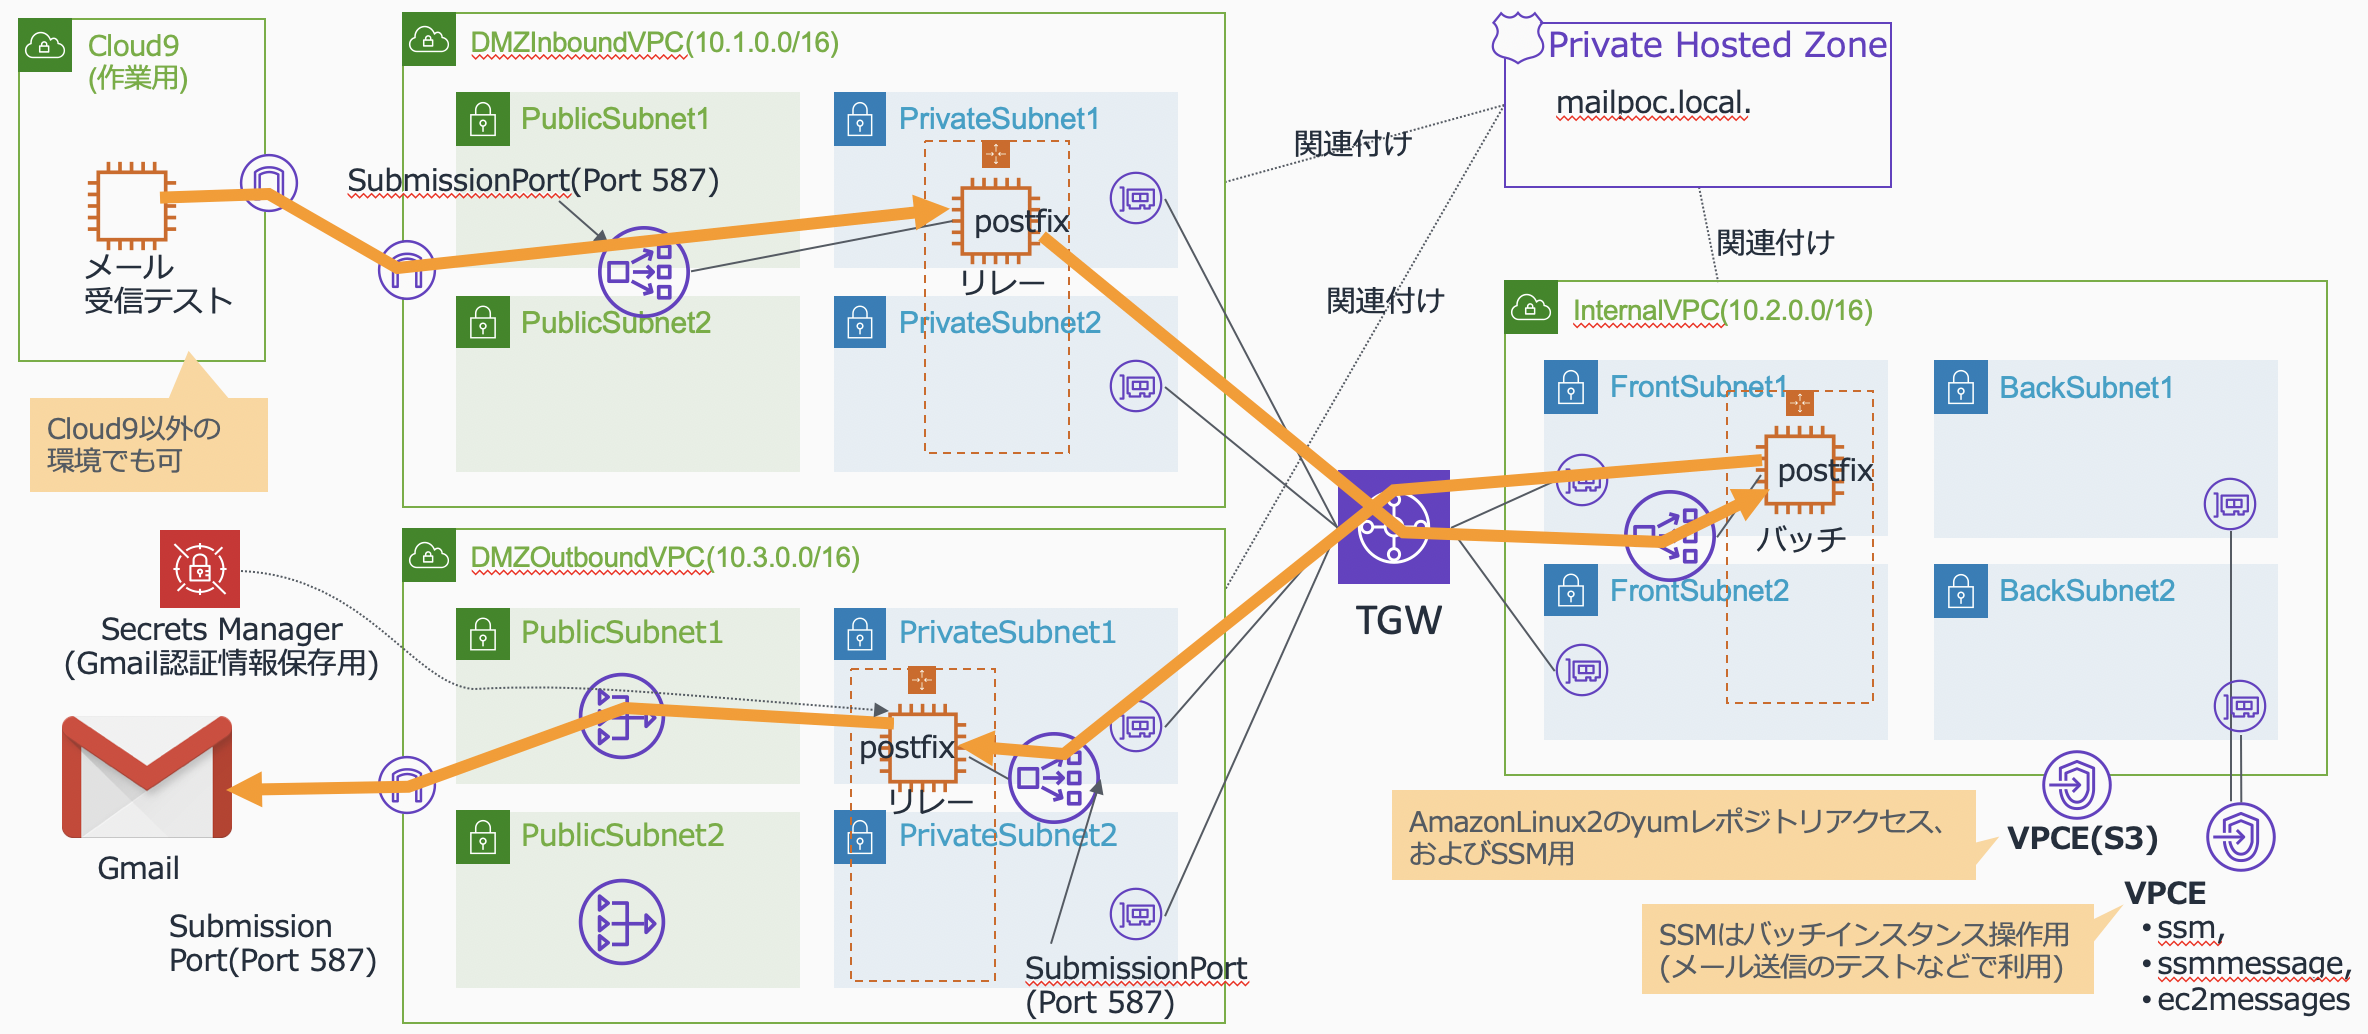
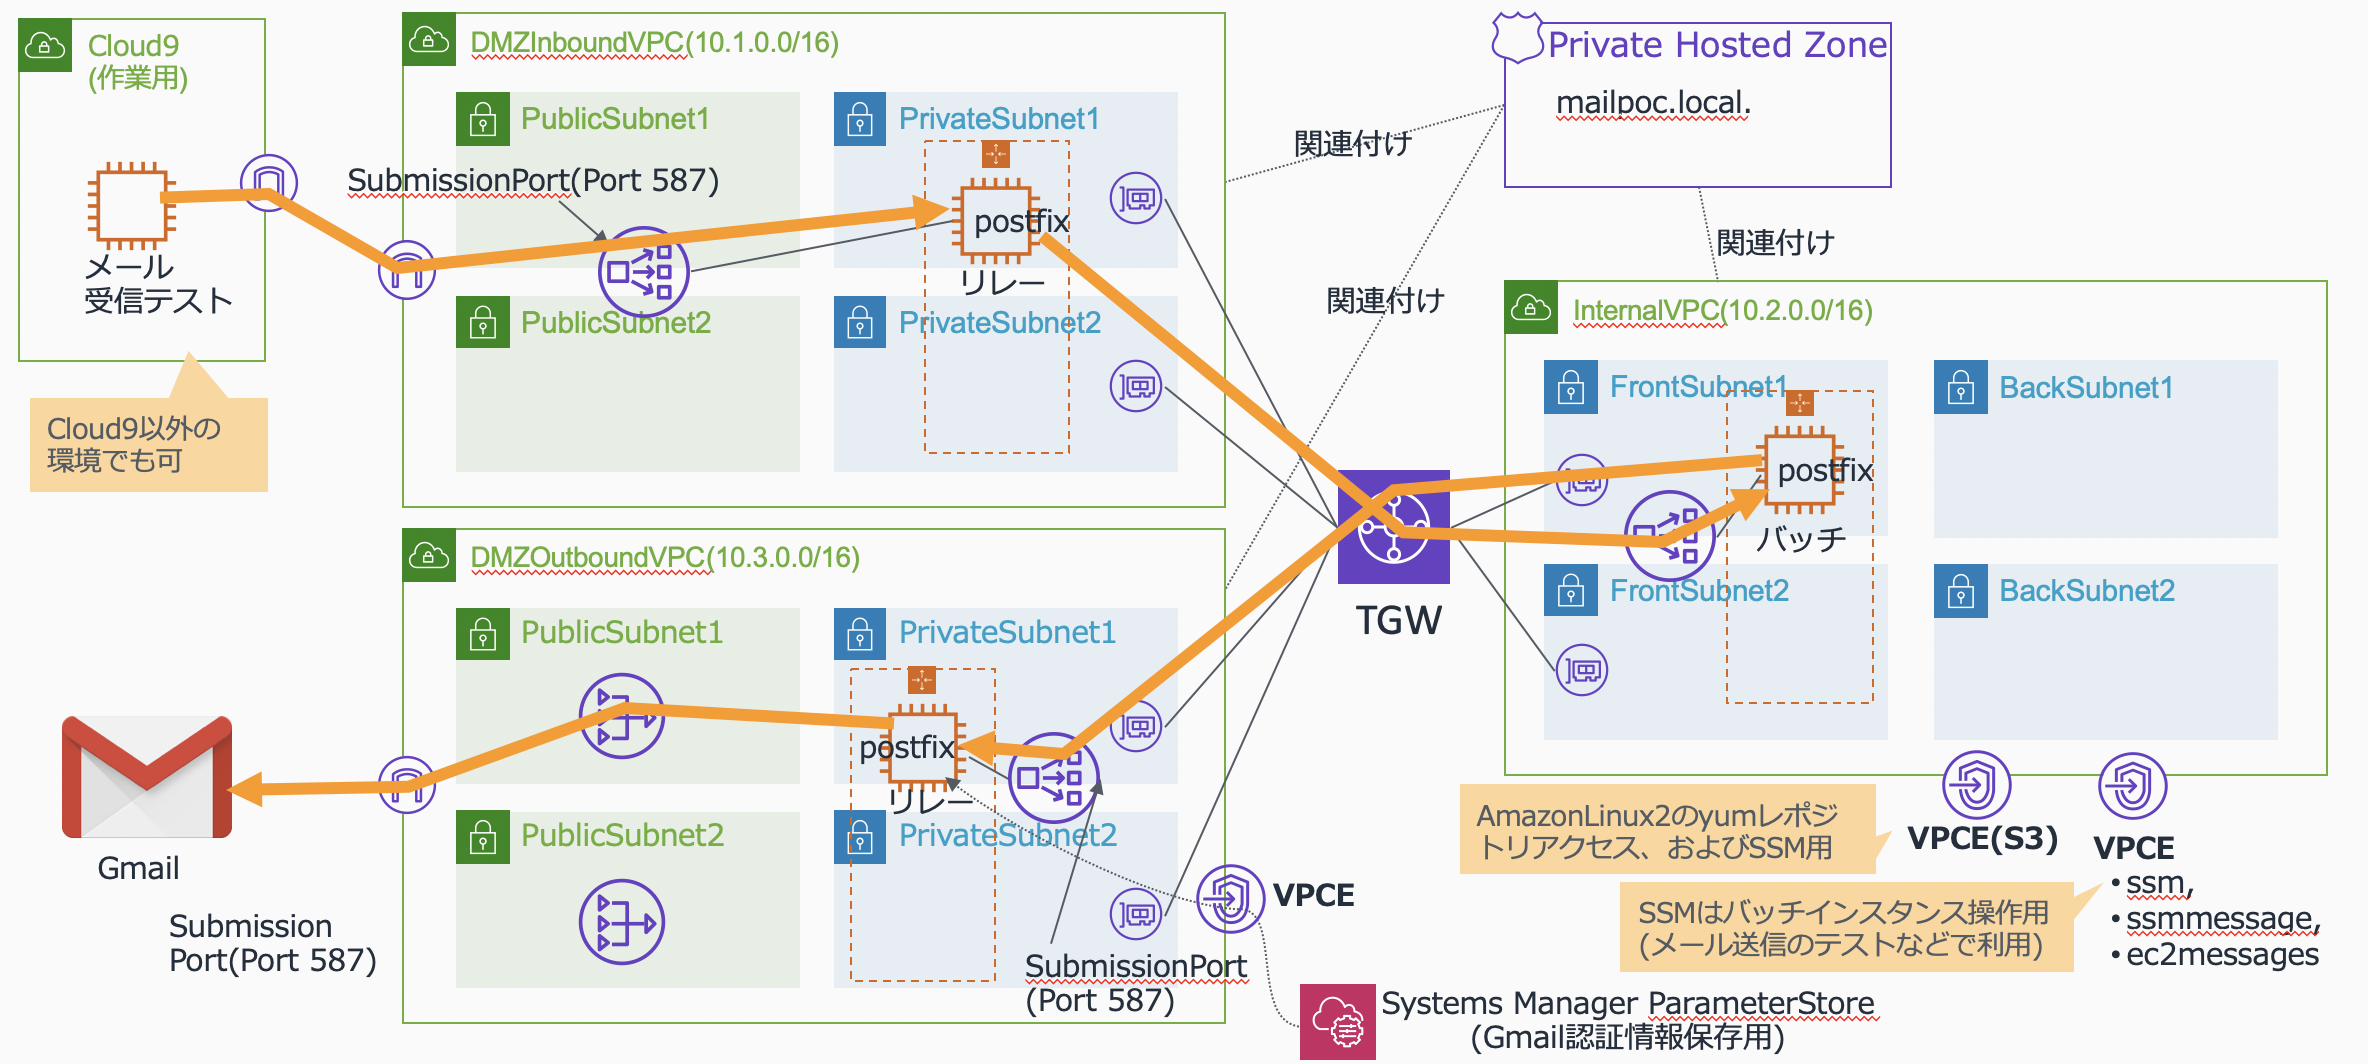
Readmeの手順、図の追加と一部手順精緻化

diff --git a/README.md b/README.md
@@ -71,12 +71,12 @@ export REGION=$(aws --profile ${PROFILE} configure get region)
 echo "${PROFILE}  ${REGION}"
 ```
 
-## (2)VPCとPrivate Zoneの作成(CloudFormation利用)
-IGWでインターネットアクセス可能で、パブリックアクセス可能なサブネットx2、プライベートなサブネットx2の合計4つのサブネットを所有するVPCを作成します。
-<img src="./Documents/Step2.png" whdth=500>
+## (2)VPCとPrivate ZoneとPrivateHostedzoneの作成(CloudFormation利用)
+Internal-VPC、Inbound-VPC、Outbound-VPCの３つのVPCと、VPC内で利用するDNSのゾーン(Private Hosted Zone)を作成します。
+なお、CloudFormationの進捗状況は、別途マネージメントコンソールの画面をだしCloudFormationのスタックを表示するとわかりやすいです。
+<img src="./Documents/10_CreateVPC.png" whdth=500>
 
 ### (2)-(a) Internal-VPC作成
-ダウンロードしたテンプレートを利用し、VPCをデプロイします。
 ```shell
 CFN_STACK_PARAMETERS='
 [
@@ -302,12 +302,14 @@ aws --profile ${PROFILE} cloudformation create-stack \
     --template-body "file://./cfn/privatehostedzone.yaml";
 ```
 ## (3)TransitGateway接続(CloudFormation利用)
+![TransitGateway](./Documents/13_TGW.png)
 ```shell
 aws --profile ${PROFILE} cloudformation create-stack \
     --stack-name MailPoC-DMZ-TGW \
     --template-body "file://./cfn/tgw.yaml" ;
 ```
 ## (4)VPCE作成(CloudFormation利用)
+![TransitGateway](./Documents/14_VPCE.png)
 ### (4)-(a) VPCE(PrivateLink)
 ```shell
 # Internal-VPCへのVPCE作成
@@ -368,12 +370,14 @@ aws --profile ${PROFILE} cloudformation create-stack \
     --template-body "file://./cfn/vpce_s3.yaml" ;
 ```
 ## (5)SecurityGroup作成(CloudFormation利用)
+EC2インスタンスに適用するSecurityGroupを作成します。
 ```shell
 aws --profile ${PROFILE} cloudformation create-stack \
     --stack-name MailPoC-SecurityGroups \
     --template-body "file://./cfn/sg.yaml" ;
 ```
 ## (6) バッチ・リレーメールインスタンスの準備
+バッチ用インスタンス、およびリレーメール用インスタンスの共通設定を行います。
 ### (6)-(a) インスタンスロール作成 (CloudFormation利用)
 ```shell
 aws --profile ${PROFILE} cloudformation create-stack \
@@ -382,9 +386,11 @@ aws --profile ${PROFILE} cloudformation create-stack \
     --capabilities CAPABILITY_NAMED_IAM ;
 ```
 ### (6)-(b)共通のパラメータ設定 
+ここで必ず、検証で外部からSubmissionPortにメール送信する時に利用する環境のパブリックIPを<code>NETWORK_FOR_SEMD_MAIL</code>に指定してください。また、利用するキーペアを<code>KEYNAME</code>に設定して下さい。
 ```shell
+NETWORK_FOR_SEMD_MAIL="<<検証時の外部クライアントのIPをCIDRで記載>>"
 POSTFIX_MYNETWORK="127.0.0.1, 10.0.0.0/8"
-POSTFIX_MYNETWORK_INBOUND="${POSTFIX_MYNETWORK}, 検証時の外部クライアントのIPをCIDRで記載"
+POSTFIX_MYNETWORK_INBOUND="${POSTFIX_MYNETWORK},${NETWORK_FOR_SEMD_MAIL}"
 
 KEYNAME="CHANGE_KEY_PAIR_NAME"  #環境に合わせてキーペア名を設定してください。  
 
@@ -395,11 +401,12 @@ AL2_AMIID=$(aws --profile ${PROFILE} --output text \
         --filters 'Name=name,Values=amzn2-ami-hvm-2.0.????????.?-x86_64-gp2' \
                   'Name=state,Values=available' \
         --query 'reverse(sort_by(Images, &CreationDate))[:1].ImageId' ) ;
-echo -e "KEYNAME=${KEYNAME}\nAL2_AMIID=${AL2_AMIID}"
+echo -e "POSTFIX_MYNETWORK_INBOUND=${POSTFIX_MYNETWORK_INBOUND}\nKEYNAME=${KEYNAME}\nAL2_AMIID=${AL2_AMIID}"
 ```
 ## (7)リレーメールインスタンス
 ### (6)-(a) (Option)Gmail接続用のパスワードのStore
-検証でGmailに接続するためのユーザIDとパスワードを安全に管理するため、System ManagerのParameter storeに格納します。
+検証でGmailに接続するためのユーザIDとパスワードを安全に管理するため、System ManagerのParameter storeに格納します。<code>GMAIL_SASL_INFO</code>にPostfixで定義する形式でGmailの認証情報を設定します。Gmailの認証はユーザとパスワードですが、パスワードはアプリケーション用のパスワードをgoogleで払い出して設定するようにします。
+![SSM Parameter Store](./Documents/16_SSM_ParameterStore.png)
 ```shell
 # GMAILの接続用の認証情報の設定
 # username@gmail:passwordに、アカウント名とgoogleで払い出したアプリパスワードを設定します。
@@ -415,6 +422,7 @@ aws --profile ${PROFILE} \
 ```
 
 ### (7)-(b) OutboundのRelayMailインスタンス作成 (CloudFormation利用)
+![SSM Parameter Store](./Documents/17_OutboundInstance.png)
 ```shell
 CFN_STACK_PARAMETERS='
 [
@@ -440,6 +448,7 @@ aws --profile ${PROFILE} cloudformation create-stack \
 ```
 
 ## (8) バッチインスタンス作成(CloudFormation利用)
+![SSM Parameter Store](./Documents/18_BatchInstance.png)
 ```shell
 CFN_STACK_PARAMETERS='
 [
@@ -463,6 +472,7 @@ aws --profile ${PROFILE} cloudformation create-stack \
     --capabilities CAPABILITY_NAMED_IAM ;
 ```
 ## (9) InboundのRelayMailインスタンス作成 (CloudFormation利用)
+![SSM Parameter Store](./Documents/19_InboundInstance.png)
 ```shell
 CFN_STACK_PARAMETERS='
 [
@@ -487,26 +497,55 @@ aws --profile ${PROFILE} cloudformation create-stack \
 ```
 
 
-## (9) テスト
-### (9)-(a)メール送信テスト
+## (10) テスト
+### (10)-(a)メール送信テスト
+バッチインスタンスにSystems Manager Session Managerでアクセスし、メール送信のテストをします。
+#### (i)Systems Manager Session Managerによるバッチインスタンスアクセス
++ マネージメントコンソールで、Systems Managerのサービスを開く
++ 左側のナビゲーションペインから<code>セッションマネージャー</code>を開く
++ <code>セッションを開始する</code>をクリックし、次の画面でリストから<code>MailPoC-InternalVPC-Batch</code>を選び、右上の<code>セッションを開始する</code>
+#### (ii)コマンドによるメール送信
 ```shell
+sudo -i -u ec2-user
+To_Address="xxxxxx@xxxxxxx.com" #Gmailからのメール受信が可能なアドレスに変更する
+
 Subject="TestMail-$(date '+%Y%m%d%H%M%S')"
 SMTP="smtp=smtp://outbound-relaymail.mailpoc.local:587"
 From_Address="xxx"
-To_Address="nobuyuf@amazon.co.jp"
+
 
 echo "テストメール$(date '+%Y%m%d%H%M%S')" | mail -s $Subject -S $SMTP -r $From_Address $To_Address
 ```
 
-### (9)-(b)メール受信テスト
+### (10)-(b)メール受信テスト
+#### (i) Cloud9(構築実行環境)からのメール送信
 ```shell
 #ローカールでのmail送信テスト用にmailコマンドをインストール
 sudo yum -y install mailx
 
+#InboundのNLBのURLを取得
+NLB_DNS=$(aws --profile ${PROFILE} --output text \
+    cloudformation describe-stacks \
+        --stack-name MailPoC-Inbound-RelayMail-Instance \
+        --query 'Stacks[].Outputs[?OutputKey==`InboundRelaymailNlbDns`].[OutputValue]')
+
+echo -e "NLB_DNS= $NLB_DNS"
+
+
+#メール送信
 Subject="TestMail-$(date '+%Y%m%d%H%M%S')"
-SMTP="smtp=smtp://InboundRelayMailNLB-5162b54f8ed6f595.elb.ap-northeast-1.amazonaws.com:587"
+SMTP="smtp=smtp://${NLB_DNS}:587"
 From_Address="xxx"
 To_Address="ec2-user@mailpoc.pub"
 
 echo "テストメール$(date '+%Y%m%d%H%M%S')" | mail -s $Subject -S $SMTP -r $From_Address $To_Address
+```
+#### (ii)バッチインスタンスでのメール受信確認
+ec2-userにて、mailコマンドを実行しメールが受信されていることを確認します。
+```shell
+mail
+Heirloom Mail version 12.5 7/5/10.  Type ? for help.
+"/var/spool/mail/ec2-user": 1 message 1 new
+>N  1 xxx                   Mon Sep 14 11:24  21/968   "TestMail-20200914112456"
+&
 ```
